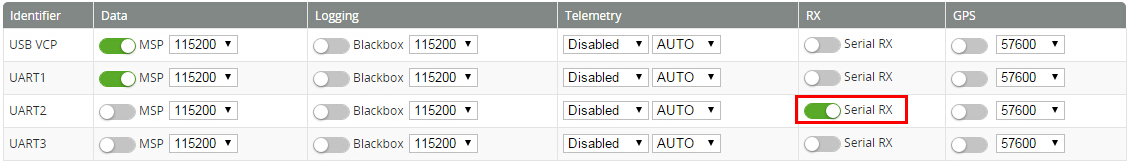
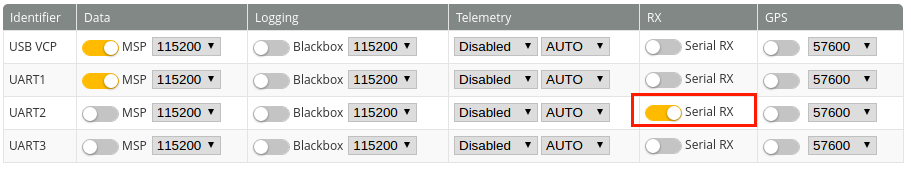
* 添加外接frsky接收机的对频过程

diff --git a/products/mkf-micro-fpv.html b/products/mkf-micro-fpv.html
@@ -121,6 +121,10 @@ title: makerfire micro fpv indoor drone
         <p>If you have problems binding change the TX to DSM2/22ms mode. Normally what you set on the TX is the desired mode and the TX+RX negotiate their capabilities and select a mutually compatible mode. The receiver in this quad seems unable to do that reliably.</p>
         <p>If you still have problems binding take the TX and walk to the other side of the room. This is a solution that Spektrum themselves recommend for some TX+RX firmware combinations. This seems to be the case between my DX8 and this quad.</p>
         </blockquote>
+
+        <blockquote>
+        <p>If you get the version with external FrSky RX,click <a href="#frsky-rx">HERE</a> for help.</p>
+        </blockquote>
       </div>
     </div>
     <hr class="half-rule">
@@ -169,6 +173,34 @@ save</pre>
         <p>Makerfire F3 brushed flight controller with Native DSM receiver, support DSM2 protocol with 8 channel or above for this current version, compatible with Spektrum DX8, DX9, DX10, DX18, DX20 transmitter, would be upgrade for supporting all Spektrum radio transmitter, like DX6/DX6i.</p>
         <p><strong>Q:</strong>What Flight Modes does it have?</p>
         <p>The board runs the popular Cleanflight/Betaflight firmware that is fully customizable and includes several different modes: Auto-Level, Horizon (auto-leveling mode with ability to flip), and full manual (rate). You can also enable AirMode and be able to control the quad at any speed and attitude!</p>
+      </div>
+    </div>
+    <hr class="half-rule">
+
+    <div class="row text-left" id="frsky-rx">
+      <div class="col-sm-12">
+        <h3>Binding & Betaflight Setup Procedure with External FrSky RX</h3>
+        <p>a.Turn on transmitter, create new mode and enter setup, the Mode must be D8.</p>
+        <p><img src="/assets/img/micro-fpv-frsky-1.png" alt="Components" class="img-responsive"></p>
+        <p>b. Power on the quadcopter by connecting the battery,red LED at the tail of the drone will flash rapidly on receiver after 6 seconds, the receiver is in ready for binding mode.Then turn on the transmitter, enter the binding mode, the red LED will turn solid, this means it has binded successfully with the default mode in SBUS.</p>
+        <blockquote>
+        <p>Connecting the USB cable will not power on the FrSky RX,so you <strong>MUST</strong> connect the battery when binding.</p>
+        </blockquote>
+        <blockquote>
+        <p>Turn on the transmitter for 6 to 30 second to be binded in SBUS mode; Turn on the transmitter after 30 seconds to be binded in PPM mode. The flight controller will default SBUS mode.</p>
+        </blockquote>
+        <p><img src="/assets/img/micro-fpv-frsky-2.png" alt="Components" class="img-responsive"></p>
+        <p>c.For each flight, turn on the transmitter firstly, then power on the quadcopter, if the receiver has a solid red LED,this means it is binded correctly,with RSSI and voltage telemetry.</p>
+        <p><img src="/assets/img/micro-fpv-frsky-3.png" alt="Components" class="img-responsive"></p>
+        <p>With FrSky RX,there are several different configurations to DSMX RX with Betaflight GUI .</p>
+        <blockquote>
+        <p>The FrSky receiver is serial.It outputs SBUS signal.</p>
+        </blockquote>
+
+        <p>Ports Tab:Switch on Serial RX of UART2.And click the Save and Reboot button in the lower right corner.</p>
+        <img src="/assets/img/micro-fpv-gui-1.png" alt="Components" class="img-responsive">
+        <p>Configuration Tab:Receiver Mode, choose RX_SERIAL; Serial Receiver Provider, choose SBUS.And click the Save and Reboot button in the lower right corner.</p>
+        <img src="/assets/img/micro-fpv-gui-3.png" alt="Components" class="img-responsive">
       </div>
     </div>
     <hr class="half-rule">
